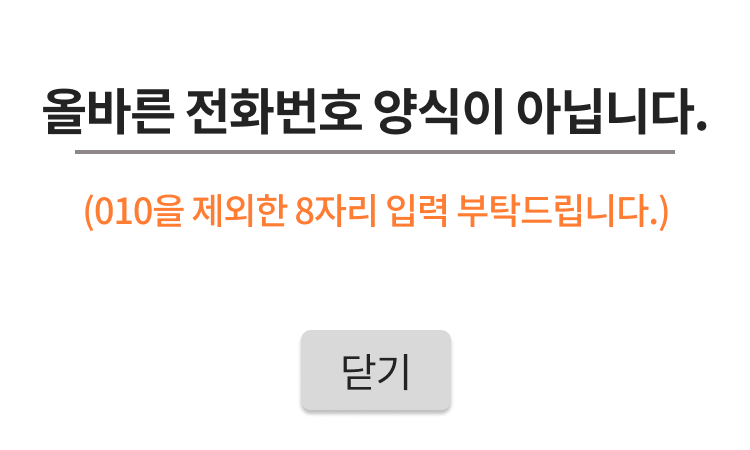
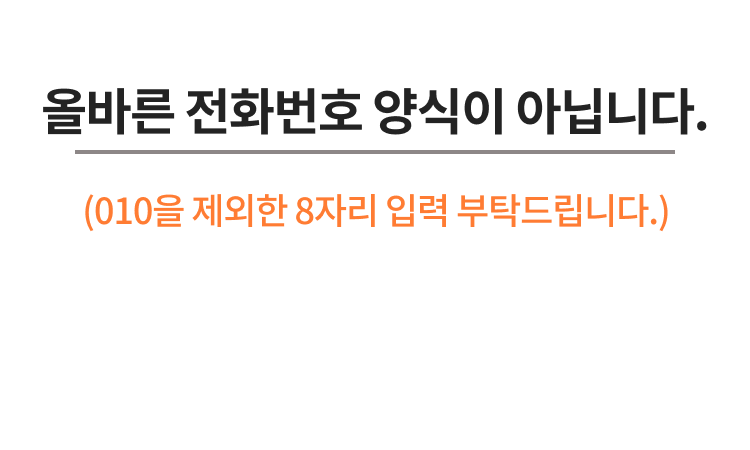
디자인 최종 수정

Changed region(s): [[0.3987, 0.7156, 0.6133, 0.9333]]

diff --git a/src/dialog/setPopup.java b/src/dialog/setPopup.java
@@ -2,12 +2,19 @@ package dialog;
 
 import javax.swing.event.AncestorEvent;
 import javax.swing.event.AncestorListener;
+
+import button.CloseButton;
+
 import javax.swing.*;
 import java.awt.*;
+import java.awt.event.ActionEvent;
+import java.awt.event.ActionListener;
 import java.awt.event.MouseEvent;
 import java.awt.event.MouseListener;
 
 public class setPopup extends JDialog{
+	CloseButton closeBtn = new CloseButton(this);
+
 	
 	public setPopup(String text) {
 		setLayout(null);
@@ -221,16 +228,28 @@ public class setPopup extends JDialog{
 	        
 	        
 	        JLabel imageLabel = new JLabel(imageIcon);
-	        
+	        imageLabel.add(closeBtn);
+	        closeBtn.setLocation(300,330);
 	        
 	        // 컴포넌트 추가 중앙 정렬
 	        add(imageLabel,BorderLayout.CENTER);
 	        
 	        // 다이얼로그 크기 설정
-	        setSize(1000, 1000);
-	        //setSize(peak);
+	        setSize(imageIcon.getIconWidth(), imageIcon.getIconHeight());
+	        
 	       
 	        setLocationRelativeTo(null);
+	        //CloseButton closeBtn = new CloseButton(this);
+	        
+	        
+	        closeBtn.addActionListener(new ActionListener() {
+				
+				@Override
+				public void actionPerformed(ActionEvent e) {
+					dispose();
+					
+				}
+			});
 	        
 	        
 	        imageLabel.addMouseListener(new MouseListener() {
@@ -261,9 +280,76 @@ public class setPopup extends JDialog{
 				
 				@Override
 				public void mouseClicked(MouseEvent e) {
-					 dispose(); 
+					 
 				}
 			});
+		}
+		
+		
+		
+		public setPopup(ImageIcon imageIcon, int closBtnheight) {
+			setLayout(new BorderLayout());
+	        setUndecorated(true); // 윈도우 장식 비활성화
+	        setBackground(new Color(0,0,0,0));
+	        
+	        
+	        JLabel imageLabel = new JLabel(imageIcon);
+	        imageLabel.add(closeBtn);
+	        closeBtn.setLocation(300,closBtnheight);
+	        
+	        // 컴포넌트 추가 중앙 정렬
+	        add(imageLabel,BorderLayout.CENTER);
+	        
+	        // 다이얼로그 크기 설정
+	        setSize(imageIcon.getIconWidth(), imageIcon.getIconHeight());
+	        
+	       
+	        setLocationRelativeTo(null);
+	        //CloseButton closeBtn = new CloseButton(this);
+	        
+	        
+	        closeBtn.addActionListener(new ActionListener() {
+				
+				@Override
+				public void actionPerformed(ActionEvent e) {
+					dispose();
+					
+				}
+			});
+	        
+	        
+	        
+//	        imageLabel.addMouseListener(new MouseListener() {
+//				
+//				@Override
+//				public void mouseReleased(MouseEvent e) {
+//					// TODO Auto-generated method stub
+//					
+//				}
+//				
+//				@Override
+//				public void mousePressed(MouseEvent e) {
+//					// TODO Auto-generated method stub
+//					
+//				}
+//				
+//				@Override
+//				public void mouseExited(MouseEvent e) {
+//					// TODO Auto-generated method stub
+//					
+//				}
+//				
+//				@Override
+//				public void mouseEntered(MouseEvent e) {
+//					// TODO Auto-generated method stub
+//					
+//				}
+//				
+//				@Override
+//				public void mouseClicked(MouseEvent e) {
+//					 dispose(); 
+//				}
+//			});
 		}
 	
 	

diff --git a/src/panel/MemberJoinPanel.java b/src/panel/MemberJoinPanel.java
@@ -67,6 +67,8 @@ public class MemberJoinPanel extends JPanel  {
     	beforeButton = new JButton(new ImageIcon("ui/main/Memberjoin/Before_Button.png"));
     	phonduplicationBtn= new JButton(new ImageIcon("ui/main/Memberjoin/DuplicateCheck_Button.png"));
     	
+    	phoneField.add(phonduplicationBtn);
+    	
     	add(numpad);
     	
 		numpad.setBounds(1080,50,550,690);
@@ -76,6 +78,7 @@ public class MemberJoinPanel extends JPanel  {
 	    phoneField.setOpaque(false);
 	    phoneField.setBounds(90, 117, 900, 110);
 	    phoneField.setOpaque(false);
+	    phoneField.setForeground(new Color(141,135,135));
 	    
 	    passwordField.setFont(new Font("Noto Sans KR Medium", Font.BOLD, 40));
 	    passwordField.setText("비밀번호 (6자리)");
@@ -83,6 +86,7 @@ public class MemberJoinPanel extends JPanel  {
 	    passwordField.setOpaque(false);
 	    passwordField.setBounds(90, 288, 900, 110);
 	    passwordField.setOpaque(false);
+	    passwordField.setForeground(new Color(141,135,135));
 	    
 	    confirmPasswordField.setFont(new Font("Noto Sans KR Medium", Font.BOLD, 40));
 	    confirmPasswordField.setText("비밀번호 확인 (6자리)");
@@ -90,6 +94,7 @@ public class MemberJoinPanel extends JPanel  {
 	    confirmPasswordField.setBounds(90, 456, 900, 110);
 	    confirmPasswordField.setOpaque(false);
 	    confirmPasswordField.setEchoChar((char) 0);
+	    confirmPasswordField.setForeground(new Color(141,135,135));
 	    
 	    beforeButton.setBounds(80, 590, 400, 148);
 	    beforeButton.setFocusPainted(false);
@@ -101,10 +106,39 @@ public class MemberJoinPanel extends JPanel  {
 	    submitButton.setBorderPainted(false);
 	    submitButton.setContentAreaFilled(false);
 	    
-	    phonduplicationBtn.setBounds(600, 0, 250, 110);
+	    
+	    add(phonduplicationBtn);
+	    phonduplicationBtn.setBounds(663, 115, 250, 110);
 	    phonduplicationBtn.setFocusPainted(false);
 	    phonduplicationBtn.setBorderPainted(false);
 	    phonduplicationBtn.setContentAreaFilled(false);
+	    
+	    
+	    // 중복체크버튼 이벤트
+	    phonduplicationBtn.addActionListener(new ActionListener() {
+	    	
+	    	
+			@Override
+			public void actionPerformed(ActionEvent e) {
+				String phoneNum = phoneField.getText();
+	            String password = new String(passwordField.getPassword());
+	            String confirmPassword = new String(confirmPasswordField.getPassword());
+	            memberjoin.setPhone(phoneNum);
+	            memberjoin.setPassword(password);
+	            
+	            // 휴대번호 양식 확인
+	            if(!Pattern.matches(phonnumRegular, phoneNum)) {  
+	            	new setPopup(new ImageIcon("ui/main/memberjoinPopup/errorphoneformat.png")).setVisible(true);
+	            	return;
+	            }
+	            
+	            // 이미 저장된 휴대번호인지 확인
+				if((LoginDAO.checkDup(phoneNum))) {	   
+					new setPopup(new ImageIcon("ui/main/memberjoinPopup/possiblePhon.png"),230).setVisible(true);
+	            } 
+			}
+		});
+	    
 	    
 	    // 폰번호 포커스 이벤트
 	    phoneField.addFocusListener(new FocusAdapter() {

diff --git a/src/panel/LoginPanel.java b/src/panel/LoginPanel.java
@@ -71,13 +71,8 @@ public class LoginPanel extends JPanel {
 	
 	
 	
-	
-	
-	
 	public LoginPanel(CardLayout card, JFrame parent) {
 	
-		
-		
 		setLayout(null);
 		add(numpad);
 		numpad.setBounds(1080,50,550,690);
@@ -93,7 +88,7 @@ public class LoginPanel extends JPanel {
 		userPhonNumber.setText(" 핸드폰번호");
 		userPhonNumber.setOpaque(false);
 		userPhonNumber.setBounds(90, 318, 800, 110);
-		userPhonNumber.setSelectionColor(new Color(0, 0, 0, 0));
+		userPhonNumber.setForeground(new Color(141,135,135));
 		
 		
 		userPhonNumber.addFocusListener(new FocusListener() {
@@ -108,7 +103,6 @@ public class LoginPanel extends JPanel {
 			public void focusGained(FocusEvent e) {
 				userPhonNumber.setText("");
 				numpad.phoneSelect = false;
-				
 			}
 		});
 		 
@@ -118,7 +112,7 @@ public class LoginPanel extends JPanel {
 		userPassField.setEchoChar((char) 0); // 텍스트가 가려지지 않도록 EchoChar를 0으로 설정
 		userPassField.setOpaque(false);
 		userPassField.setBounds(90, 430, 800, 110);
-		userPassField.setSelectionColor(new Color(0, 0, 0, 0));
+		userPassField.setForeground(new Color(141,135,135));
 		
 		userPassField.addFocusListener(new FocusListener() {
 			

diff --git a/src/frame/LoginFrame.java b/src/frame/LoginFrame.java
@@ -45,6 +45,7 @@ import thread.UpdateInfo;
 
 public class LoginFrame extends JFrame{
 	
+	
 	MemberJoin memberjoin = new MemberJoin();
 	
 	CardLayout card = new CardLayout();
@@ -55,15 +56,28 @@ public class LoginFrame extends JFrame{
 	MemberJoinPanel memberJoinPanel = new MemberJoinPanel(memberjoin,card);
 	UserInfoCheckPanel userInfoCheckPanel = new UserInfoCheckPanel(memberjoin, card);
 	
+	//관리자 버튼
+	JButton masterBtn = new JButton(new ImageIcon("ui/main/Master_Icon.png"));
+	
+	
+	
+	
 	JPanel cardPanel = new JPanel();
 	// 쓰레드 클래스
 	static TimeRun timeRun = new TimeRun(MainFrame.timeLabel);
 	static UpdateInfo updateInfo = new UpdateInfo();
+	
+	
 		
 	public LoginFrame() {
 		
 		background.setLayout(null);
 		add(background);
+		
+		background.add(masterBtn);
+		masterBtn.setBounds(1811,978,60,48);
+		masterBtn.setBackground(new Color(73,67,68));
+		masterBtn.setBorderPainted(false);
 
 		cardPanel.setLayout(card);
 		background.add(cardPanel);
